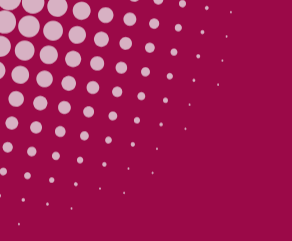
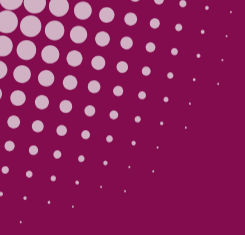
atualizando conteudo e pedido do cliente para a home

diff --git a/style.css b/style.css
@@ -269,12 +269,14 @@ body, html {
 }
 #header.scrollfix {
   background-color: #830c4f;
-  border-top: 2px solid white;
+  border-bottom: 2px solid white;
+  -webkit-box-shadow: 0 0 5px 5px rgba(0, 0, 0, 0.5);
+          box-shadow: 0 0 5px 5px rgba(0, 0, 0, 0.5);
 }
 
 .banner {
   position: relative;
-  background-color: #9b0948;
+  background-color: #830c4f;
   height: 100vh;
   border-bottom: 2px solid white;
 }
@@ -359,7 +361,7 @@ body, html {
 .linhas {
   position: relative;
   padding: 100px 40px;
-  background-color: #9b0948;
+  background-color: #830c4f;
   z-index: 2;
 }
 .linhas h2 {
@@ -404,7 +406,7 @@ body, html {
   color: #ffa51d;
   margin-bottom: 30px;
   text-align: center;
-  text-shadow: -2px 0 #9b0948, 0 2px #9b0948, 2px 0 #9b0948, 0 -2px #9b0948;
+  text-shadow: -2px 0 #830c4f, 0 2px #830c4f, 2px 0 #830c4f, 0 -2px #830c4f;
 }
 .qualidade .qualidade-content h3 {
   font-size: 60px;
@@ -431,7 +433,7 @@ body, html {
 
 .acai {
   position: relative;
-  background-color: #9b0948;
+  background-color: #830c4f;
   padding: 60px 30px;
 }
 .acai .container {
@@ -487,7 +489,7 @@ body, html {
 
 .historia {
   position: relative;
-  background-color: #9b0948;
+  background-color: #830c4f;
   padding: 80px 20px;
   border-top: 2px solid white;
   border-bottom: 2px solid white;
@@ -518,7 +520,7 @@ body, html {
 
 footer {
   position: relative;
-  background-color: #9b0948;
+  background-color: #830c4f;
   padding: 60px 20px 0px;
 }
 footer .footer-content {

diff --git a/assets/scss/style.scss b/assets/scss/style.scss
@@ -78,7 +78,8 @@ body, html{
     }
     &.scrollfix{
         background-color: #830c4f;
-        border-top: 2px solid white;
+        border-bottom: 2px solid white;
+        box-shadow: 0 0 5px 5px rgba(0,0,0,0.5);
     }
 }
 .banner{

diff --git a/assets/scss/variables.scss b/assets/scss/variables.scss
@@ -1,4 +1,4 @@
 $white: #ffffff;
-$roxo: #9b0948;
+$roxo: #830c4f;
 $yellow: #ffa51d;
 $black: #000000;

diff --git a/index.php b/index.php
@@ -28,7 +28,7 @@
                                 <a class="nav-link active" aria-current="page" href="#">Home</a>
                             </li>
                             <li class="nav-item">
-                                <a class="nav-link" href="#">Features</a>
+                                <a class="nav-link" href="#">Sobre Nós</a>
                             </li>
                             <li class="nav-item">
                                 <a class="nav-link" href="#">
@@ -36,10 +36,10 @@
                                 </a>
                             </li>
                             <li class="nav-item">
-                                <a class="nav-link" href="#">Features</a>
+                                <a class="nav-link" href="#">Produtos</a>
                             </li>
                             <li class="nav-item">
-                                <a class="nav-link" href="#">Features</a>
+                                <a class="nav-link" href="#">Contatos</a>
                             </li>
                         </ul>
                     </div>
@@ -73,10 +73,10 @@
             <div class="conteiner-fluid">
                 <div class="row">
                     <div class="col-md-12">
-                        <h2 class="text-center">CONHEÇA NOSSAS LINHAS DE PRODUTOS</h2>
+                        <h2 class="text-center">Açaí Puro e Cremoso – Sabor de Verdade, Só Aqui! </h2>
                         <p class="text-center linha-subtitle">
-                            Aqui na Tudo de Bom, fazemos tudo com muito carinho, pensando em cada detalhe para deixar sua experiência ainda mais deliciosa. Nossa linha de sorvetes é feita para encantar, com sabores incríveis e texturas perfeitas, porque acreditamos que o melhor da vida deve ser saboreado com prazer. 
-                            Venha conhecer nossos produtos e se apaixonar! Tudo de bom, sempre pensando em você!
+                            A liberdade de escolha que você merece! Com mais de 10 combinações de toppings, você monta o seu açaí do jeitinho que você gosta. Seja com frutas frescas, granola crocante, leite em pó, leite condensado, paçoca, ovomaltine ou outras opções deliciosas, a escolha é sua!
+                            Leve para Casa ou Consuma Aqui: Disponível em potes de 2L e 5L, nosso açaí é perfeito para dividir com a galera, curtir aquele evento especial ou simplesmente saborear no conforto de casa.
                         </p>
                     </div>
                 </div>
@@ -108,8 +108,11 @@
                     <div class="col-lg-6 col-sm-12">
                         <div class="acai-content">
                             <h2 class="style-script-regular">açai</h2>
-                            <h3 class="lilita-one-regular">Tudo de Bom</h3>
-                            <p class="acai-subtitle">Aqui na nossa loja, a linha de Açaí Tudo de Bom, feita com os melhores ingredientes, é perfeita para você que ama um açaí de qualidade. Oferecemos potes nos tamanhos de 2 e 5 litros, além de permitir que você crie a combinação perfeita do seu jeito!</p>
+                            <h3 class="lilita-one-regular">Sorvetes de Fabricação Própria – O Sabor da Alegria!</h3>
+                            <p class="acai-subtitle">
+                                Na Tudo de Bom, nossos sorvetes são feitos com ingredientes selecionados e um toque especial para trazer muita alegria em cada colherada. Se você quiser curtir sozinho ou compartilhar com os amigos na festa, evento ou no trabalho, temos o sabor perfeito para todo mundo!
+                                Pote de 2L: Ideal para dividir com a turma ou levar para aquele evento que vai ser ainda mais gostoso com nosso sorvete!
+                            </p>
                         </div>
                     </div>
                     <div class="col-lg-6 col-sm-12">
@@ -131,8 +134,8 @@
                     </div>
                 </div>
                 <div class="col-lg-6 col-sm-12">
-                    <h2 class="historia-title">Conheça nossa historia</h2>
-                    <p class="historia-subtitle">A Tudo de Bom é uma sorveteria que nasceu do sonho de oferecer aos nossos clientes uma experiência única e deliciosa. Desde o início, nossa missão sempre foi criar sorvetes e açaí de alta qualidade, feitos com ingredientes frescos e selecionados. Com o tempo, conquistamos a confiança e o carinho dos nossos clientes, tornando-nos uma referência em sabor e qualidade na região.</p>
+                    <h2 class="historia-title">Monte Seu Sabor no Nosso Self-Service!</h2>
+                    <p class="historia-subtitle">Na Tudo de Bom, você tem a liberdade de escolher entre nosso açaí cremoso e nossos sorvetes deliciosos, e montar a sobremesa do jeitinho que mais gosta. Com mais de 10 opções de toppings, como frutas frescas, granola crocante, paçoca, leite condensado, chocolate e muito mais, cada visita se torna uma experiência única de sabor. Tudo isso no nosso self-service, onde você tem total controle para criar a combinação perfeita para o seu paladar. E se bateu a vontade de levar para casa, temos potes de 2L, ideais para compartilhar com a galera ou curtir sozinho. A escolha é sua, e o sabor é sempre incrível!</p>
                 </div>
             </div>
         </div>
@@ -152,13 +155,7 @@
                         <h3>FIQUE POR DENTRO DE TUDO NaS SIGA NAS REDES SOCIAIS</h2>
                         <ul class="social-media">
                             <li>
-                                <a href="#"><i class="fa-brands fa-instagram"></i></a>
-                            </li>
-                            <li>
-                                <a href="#"><i class="fa-brands fa-facebook-f"></i></a>
-                            </li>
-                            <li>
-                                <a href="#"><i class="fa-brands fa-tiktok"></i></a>
+                                <a href="https://www.instagram.com/tudodebomgru/?hl=pt"><i class="fa-brands fa-instagram"></i></a>
                             </li>
                         </ul>
                     </div>
